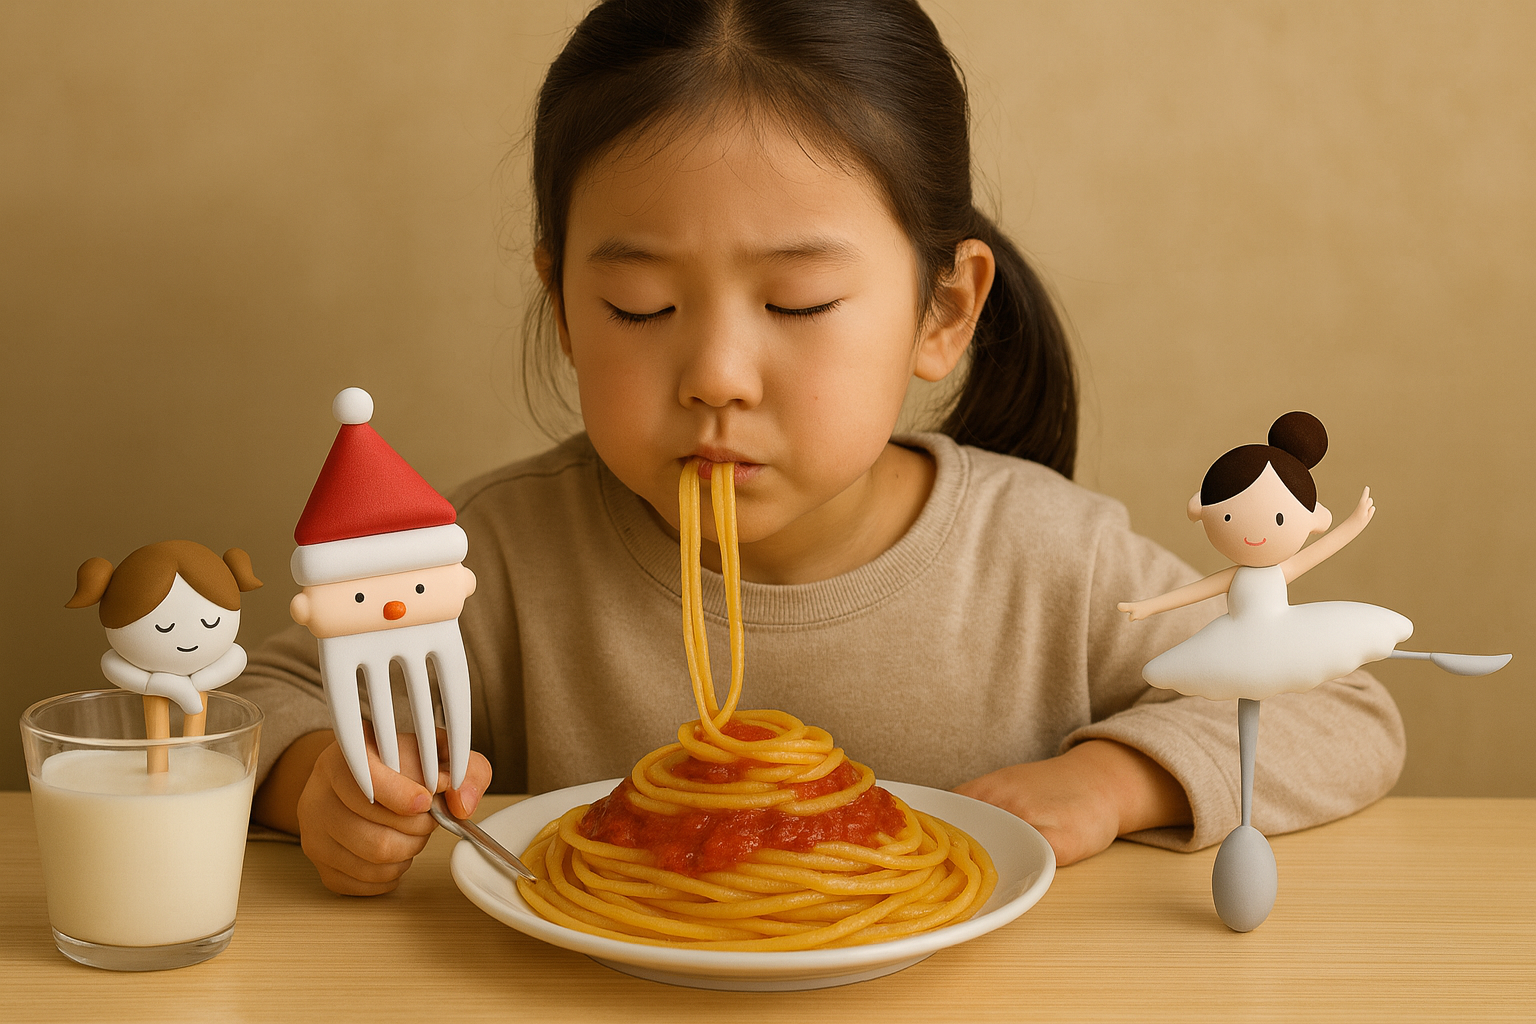
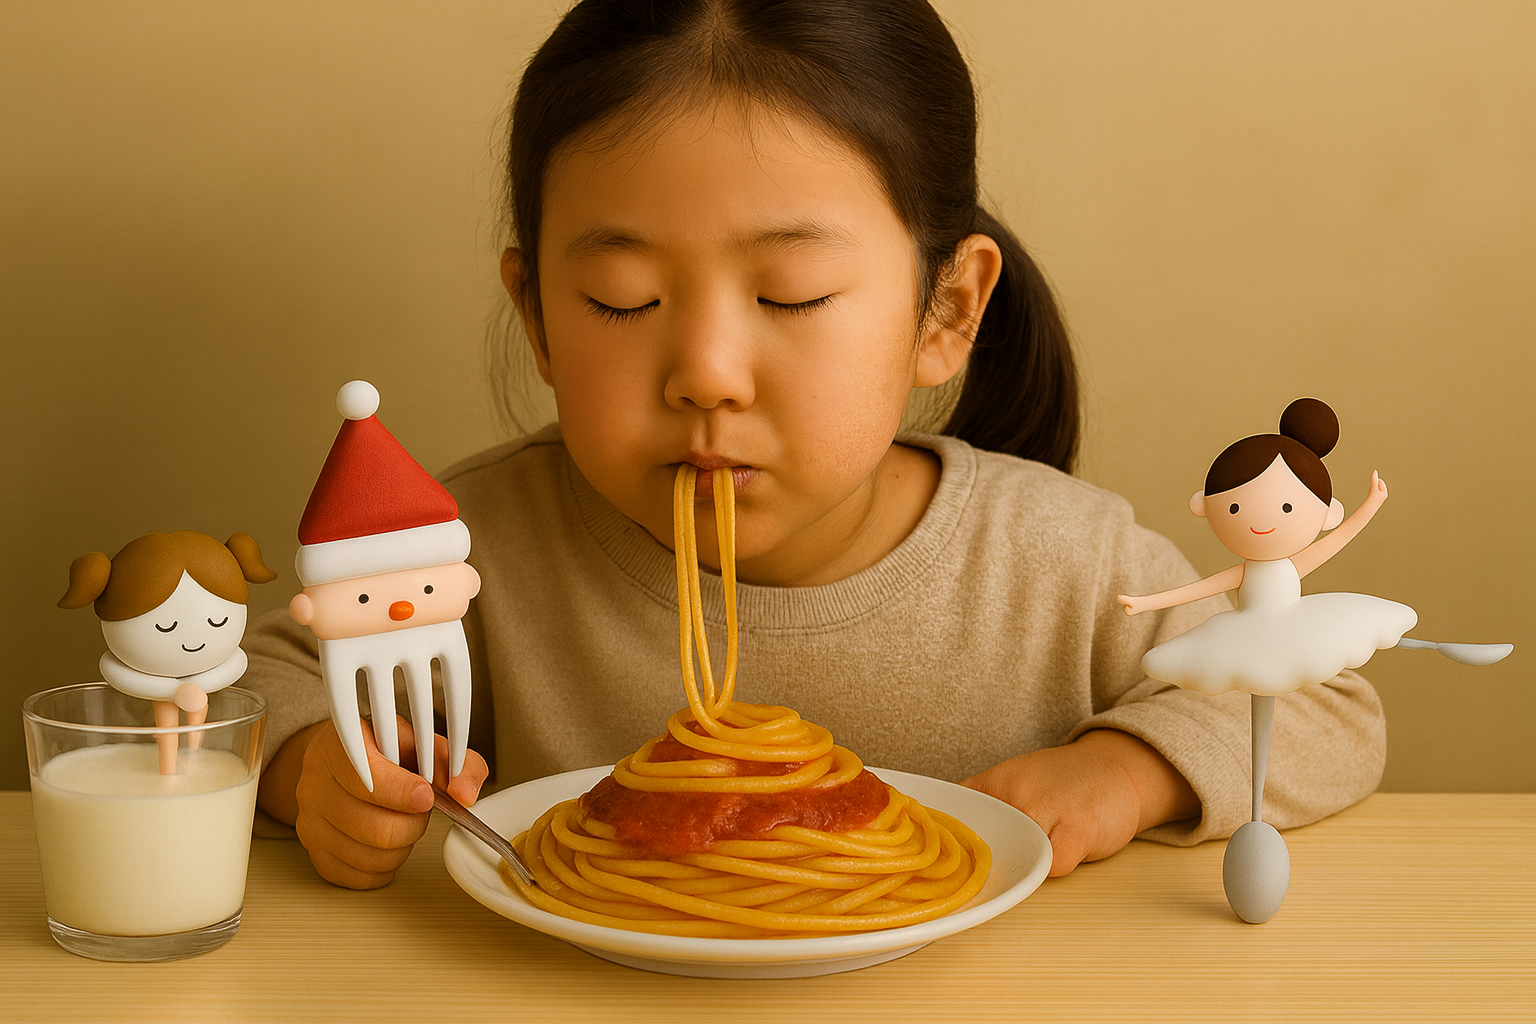
Add files via upload

diff --git a/about.html b/about.html
@@ -11,12 +11,14 @@
   <div class="wrap">
     <header>
       <div class="logo">
-        <h1>Table Friends</h1>
+        <!--- ロゴクリックでホームに戻れるようにする-->
+        <h1><a href="index.html" style="color: inherit; text-decoration: none;">Table Friends</a></h1>
         <p>架空カトラリーのWeb展示</p>
       </div>
       <nav style="margin-left:auto; display:flex; gap:12px; align-items:center;">
         <a href="index.html" style="color:#fff; background:#4a90e2; padding:8px 12px; border-radius:6px; text-decoration:none; font-weight:600;">Home</a>
-        <a href="#voice" style="color:#fff; background:#4a90e2; padding:8px 12px; border-radius:6px; text-decoration:none; font-weight:600;">お客様の声</a>
+        <!--ABOUTの中にお客様の声が入っていて、ページによって動きが違うから非表示にする-->
+        <!--<a href="#voice" style="color:#fff; background:#4a90e2; padding:8px 12px; border-radius:6px; text-decoration:none; font-weight:600;">お客様の声</a>-->
       </nav>
     </header>
 
@@ -41,7 +43,7 @@
             <h3 style="text-decoration: underline; text-decoration-style: double; text-decoration-color: #2b2b2b; text-underline-offset: 6px;">こんな人におすすめ</h3>
             <div style="display: flex; gap: 30px; align-items: flex-start; flex-wrap: wrap;">
               <div style="flex: 0 0 auto; text-align: center;">
-                <img src="images/cutlery03.png" alt="スイレン（ナイフ）" style="max-width: 250px; height: auto; border-radius: 12px;" />
+                <img src="images/cutlery03.png" alt="スイレン（ナイフ）" style="max-width: 150px; height: auto; border-radius: 12px;" />
               </div>
               <div style="flex: 1 1 250px;">
                 <ul class="check-list">

diff --git a/index.html b/index.html
@@ -7,13 +7,13 @@
   <meta name="description" content="あえて使いにくい人型カトラリーを架空の商品として魅せる、Table FriendsのWeb展示雛形。3DCG画像を差し替えて利用できます。" />
 <link rel="stylesheet" href="style.css">
 <script src="script.js" defer></script>
-
 </head>
 <body>
   <div class="wrap">
     <header>
       <div class="logo">
-        <h1>Table Friends</h1>
+         <!--- ロゴクリックでホームに戻れるようにする-->
+        <h1><a href="index.html" style="color: inherit; text-decoration: none;">Table Friends</a></h1>
         <p>架空カトラリーのWeb展示</p>
       </div>
       <nav style="margin-left:auto; display:flex; gap:14px; align-items:center;">
@@ -31,8 +31,9 @@
 
 <div class="lead">
         <h2>使えないけど、なんだか好きになる。</h2>
-        <p>あえて"使いにくい"人型カトラリーを架空の商品としてデザインし、Webで感情的価値を伝えるための展示ページの雛形です。ここに3DCGレンダリングを差し替えて、作品世界を表現してください。</p>
-      </div>
+        <p>「架空の人型カトラリー」を架空の商品としてデザインしおもしろおかしく<br>
+            架空の商品としてデザインしました。</p>
+</div>
 
     <section>
       <h3 style="margin-bottom:12px">コレクション</h3>
@@ -147,4 +148,3 @@
 </body>
 </html>
 
-  

diff --git a/purchase.html b/purchase.html
@@ -11,7 +11,8 @@
   <div class="wrap">
     <header>
       <div class="logo">
-        <h1>Table Friends</h1>
+        <!--- ロゴクリックでホームに戻れるようにする-->
+        <h1><a href="index.html" style="color: inherit; text-decoration: none;">Table Friends</a></h1>
         <p>架空カトラリーのWeb展示</p>
       </div>
       <nav style="margin-left:auto; display:flex; gap:14px; align-items:center;">
@@ -74,6 +75,7 @@
           <li>ご購入完了（架空）</li>
         </ol>
       </section> -->
+
 
       <div style="margin-top: 40px; text-align: center;">
         <a href="index.html" style="display: inline-block; padding: 12px 24px; background: #4a90e2; color: #fff; text-decoration: none; border-radius: 6px; font-weight: 600;">トップに戻る</a>
